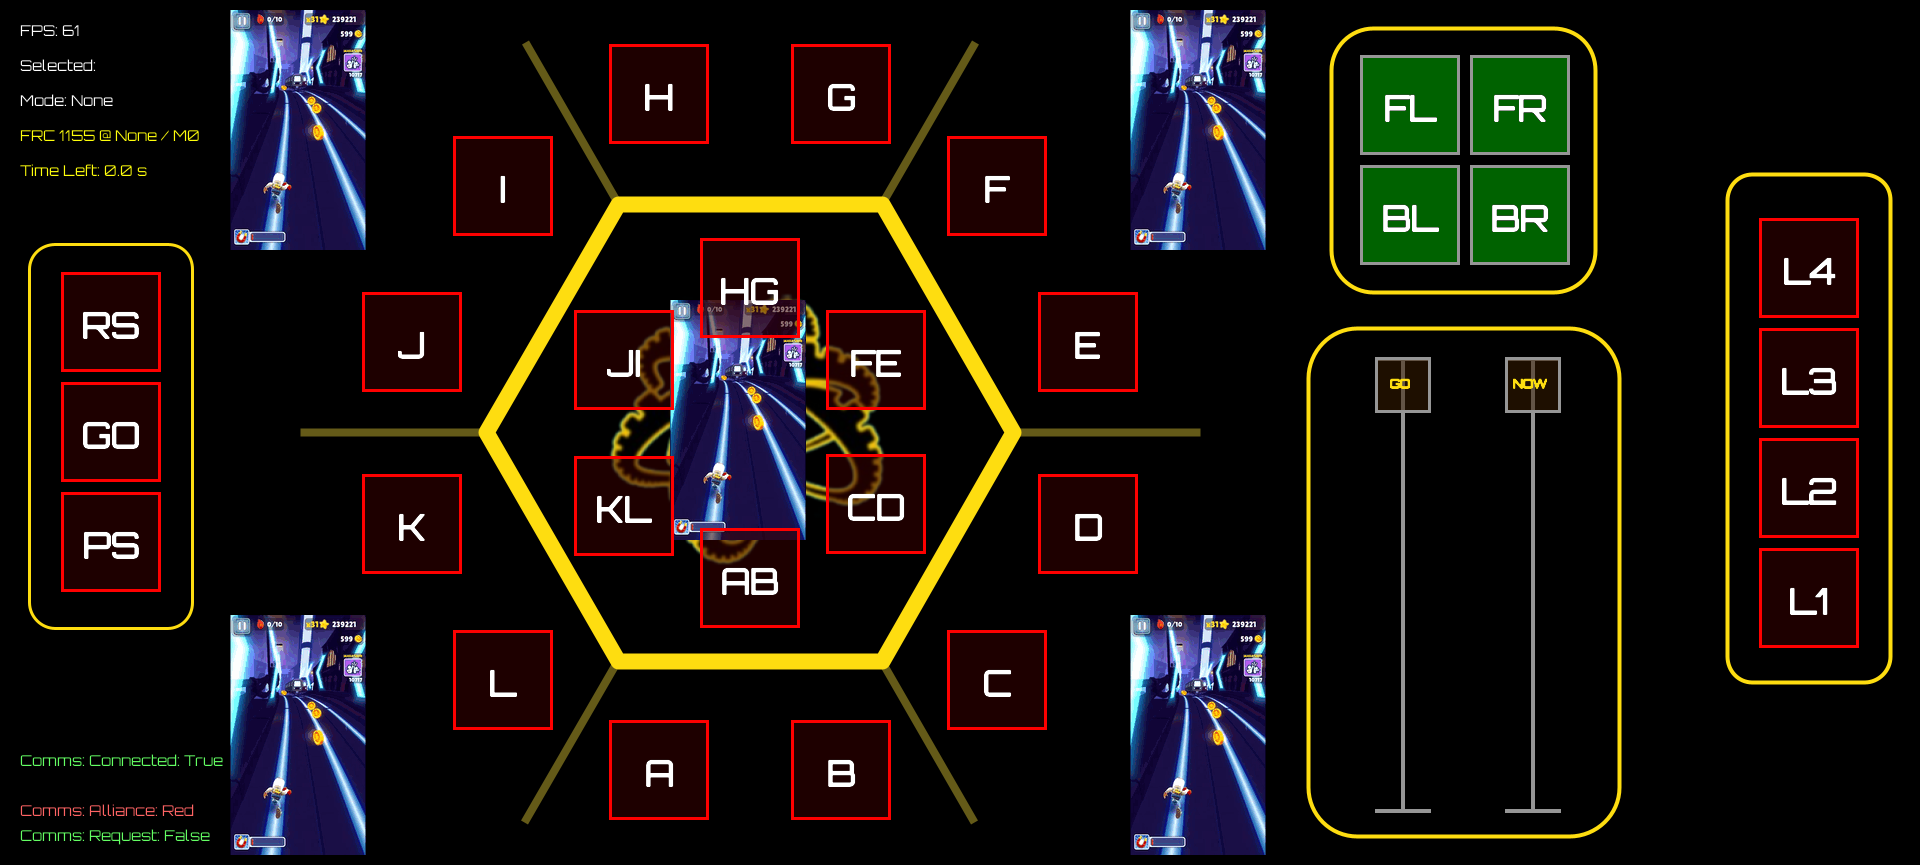
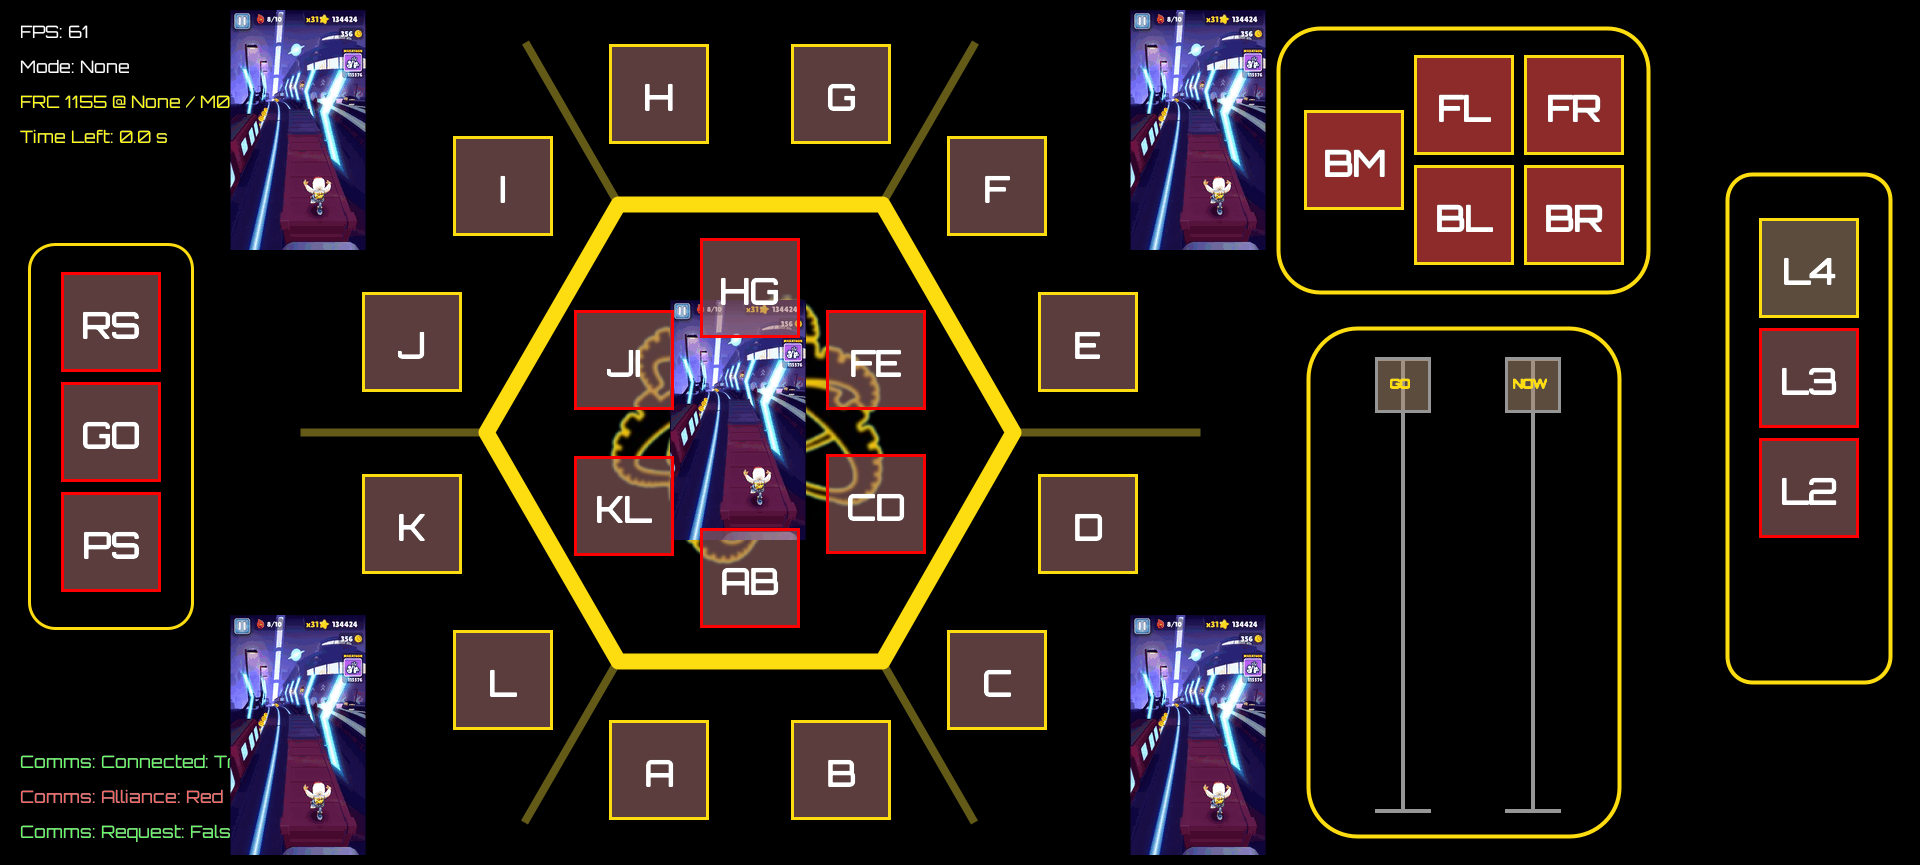
quick bug fixes

diff --git a/subsystems/lib/visuals.py b/subsystems/lib/visuals.py
@@ -81,10 +81,10 @@ class BranchButtonVisualObject(VisualObject):
         self.imgDisconnected = generateBorderBox((94,94), 3, (0,0,0,0), (0,0,0,100))
         placeOver(self.imgDisconnected, overlayText, (50, 50), True)
 
-        self.imgRed = generateBorderBox((94,94), 3, (0,0,0,0), (100,0,0,200))
+        self.imgRed = generateBorderBox((94,94), 3, (0,0,0,0), (100,0,0,100))
         placeOver(self.imgRed, overlayText, (50,50), True)
 
-        self.imgBlue = generateBorderBox((94,94), 3, (0,0,0,0), (0,0,100,200))
+        self.imgBlue = generateBorderBox((94,94), 3, (0,0,0,0), (0,0,100,100))
         placeOver(self.imgBlue, overlayText, (50,50), True)
 
         self.frameDisabled = generateBorderBox((94,94), 3, (150,150,150,255), (0,0,0,0))

diff --git a/subsystems/comms.py b/subsystems/comms.py
@@ -181,10 +181,10 @@ class Comms:
         else: return False
     
     def setAvailableBranches(self, branch:str) -> None:
-        self.entryAvailableBranches.setString(branch)
+        if COMMS: self.entryAvailableBranches.setString(branch)
 
     def setSelectedLevel(self, level:int) -> None:
-        self.entryTargetLevel.setInteger(level)
+        if COMMS: self.entryTargetLevel.setInteger(level)
     
     def setProcessor(self) -> None:
         self.selectedProcessor = not(self.selectedProcessor)

diff --git a/settings.py b/settings.py
@@ -3,7 +3,7 @@
 '''################################################################################################################################'''
 
 # Defines whether the robot is real or not. Determines connection method.
-REAL = False
+REAL = True
 
 # Changes the method of detection. When set to true, detects sudden mouse teleportation as a click.
 TOUCHSCREEN = True
